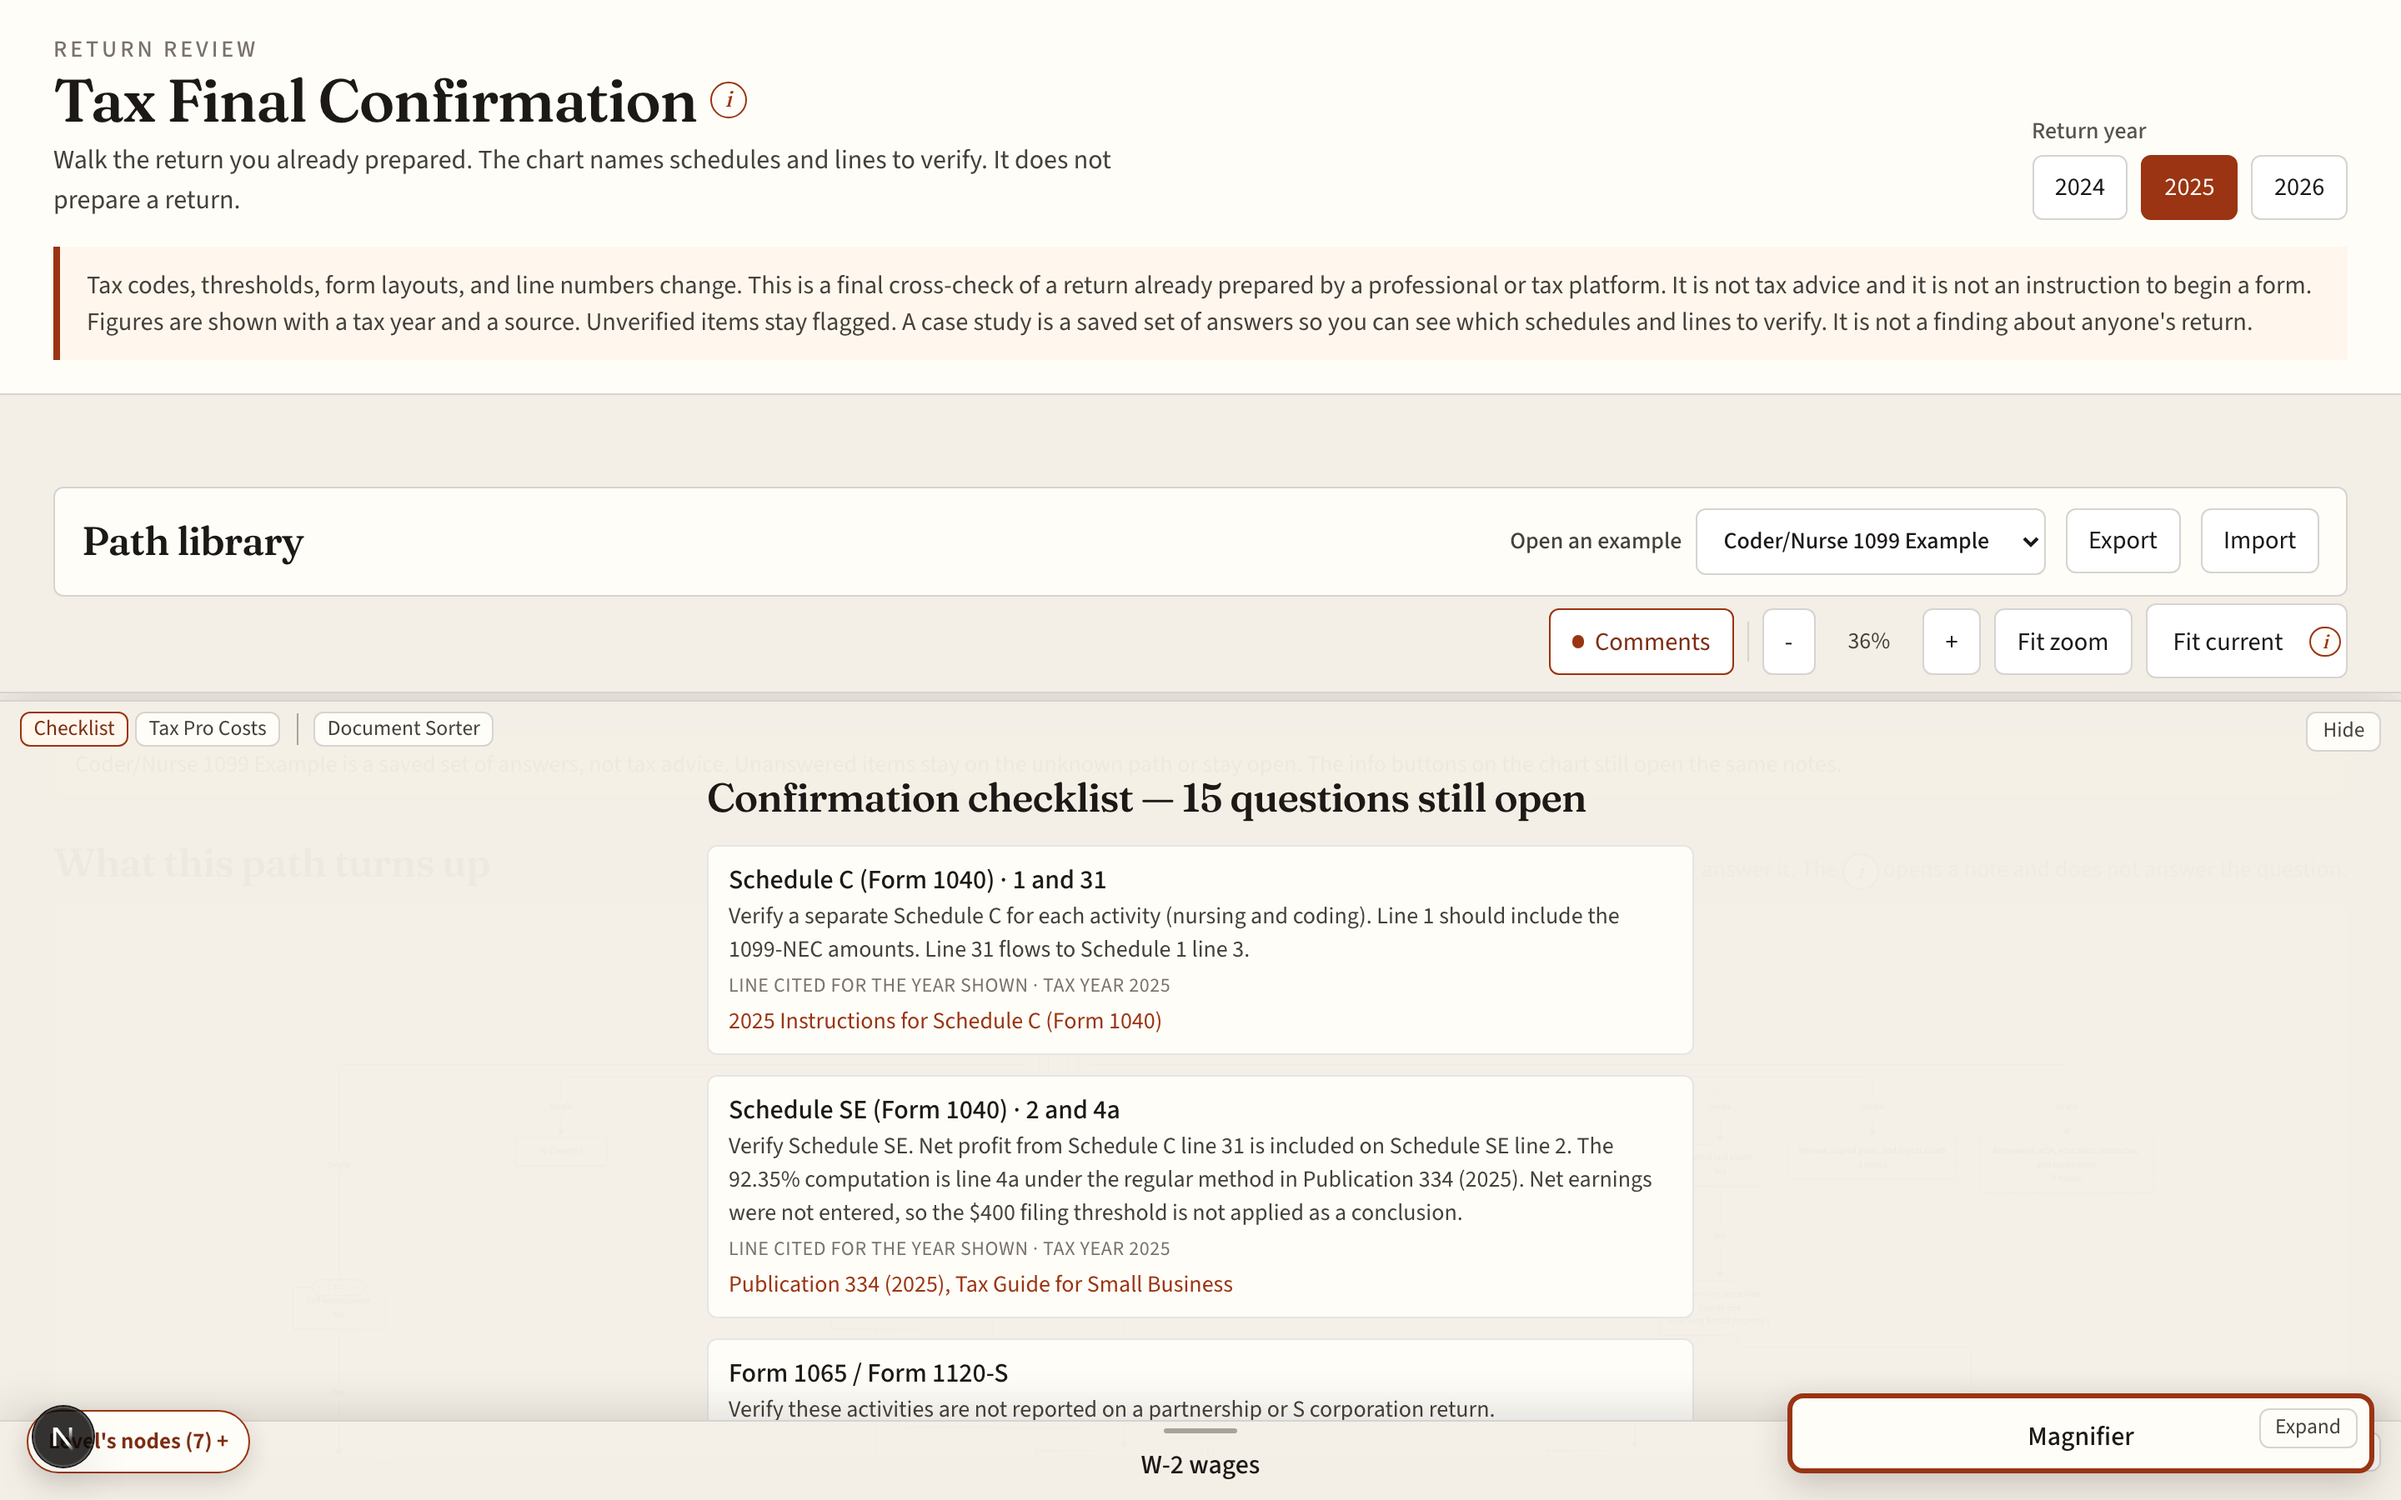
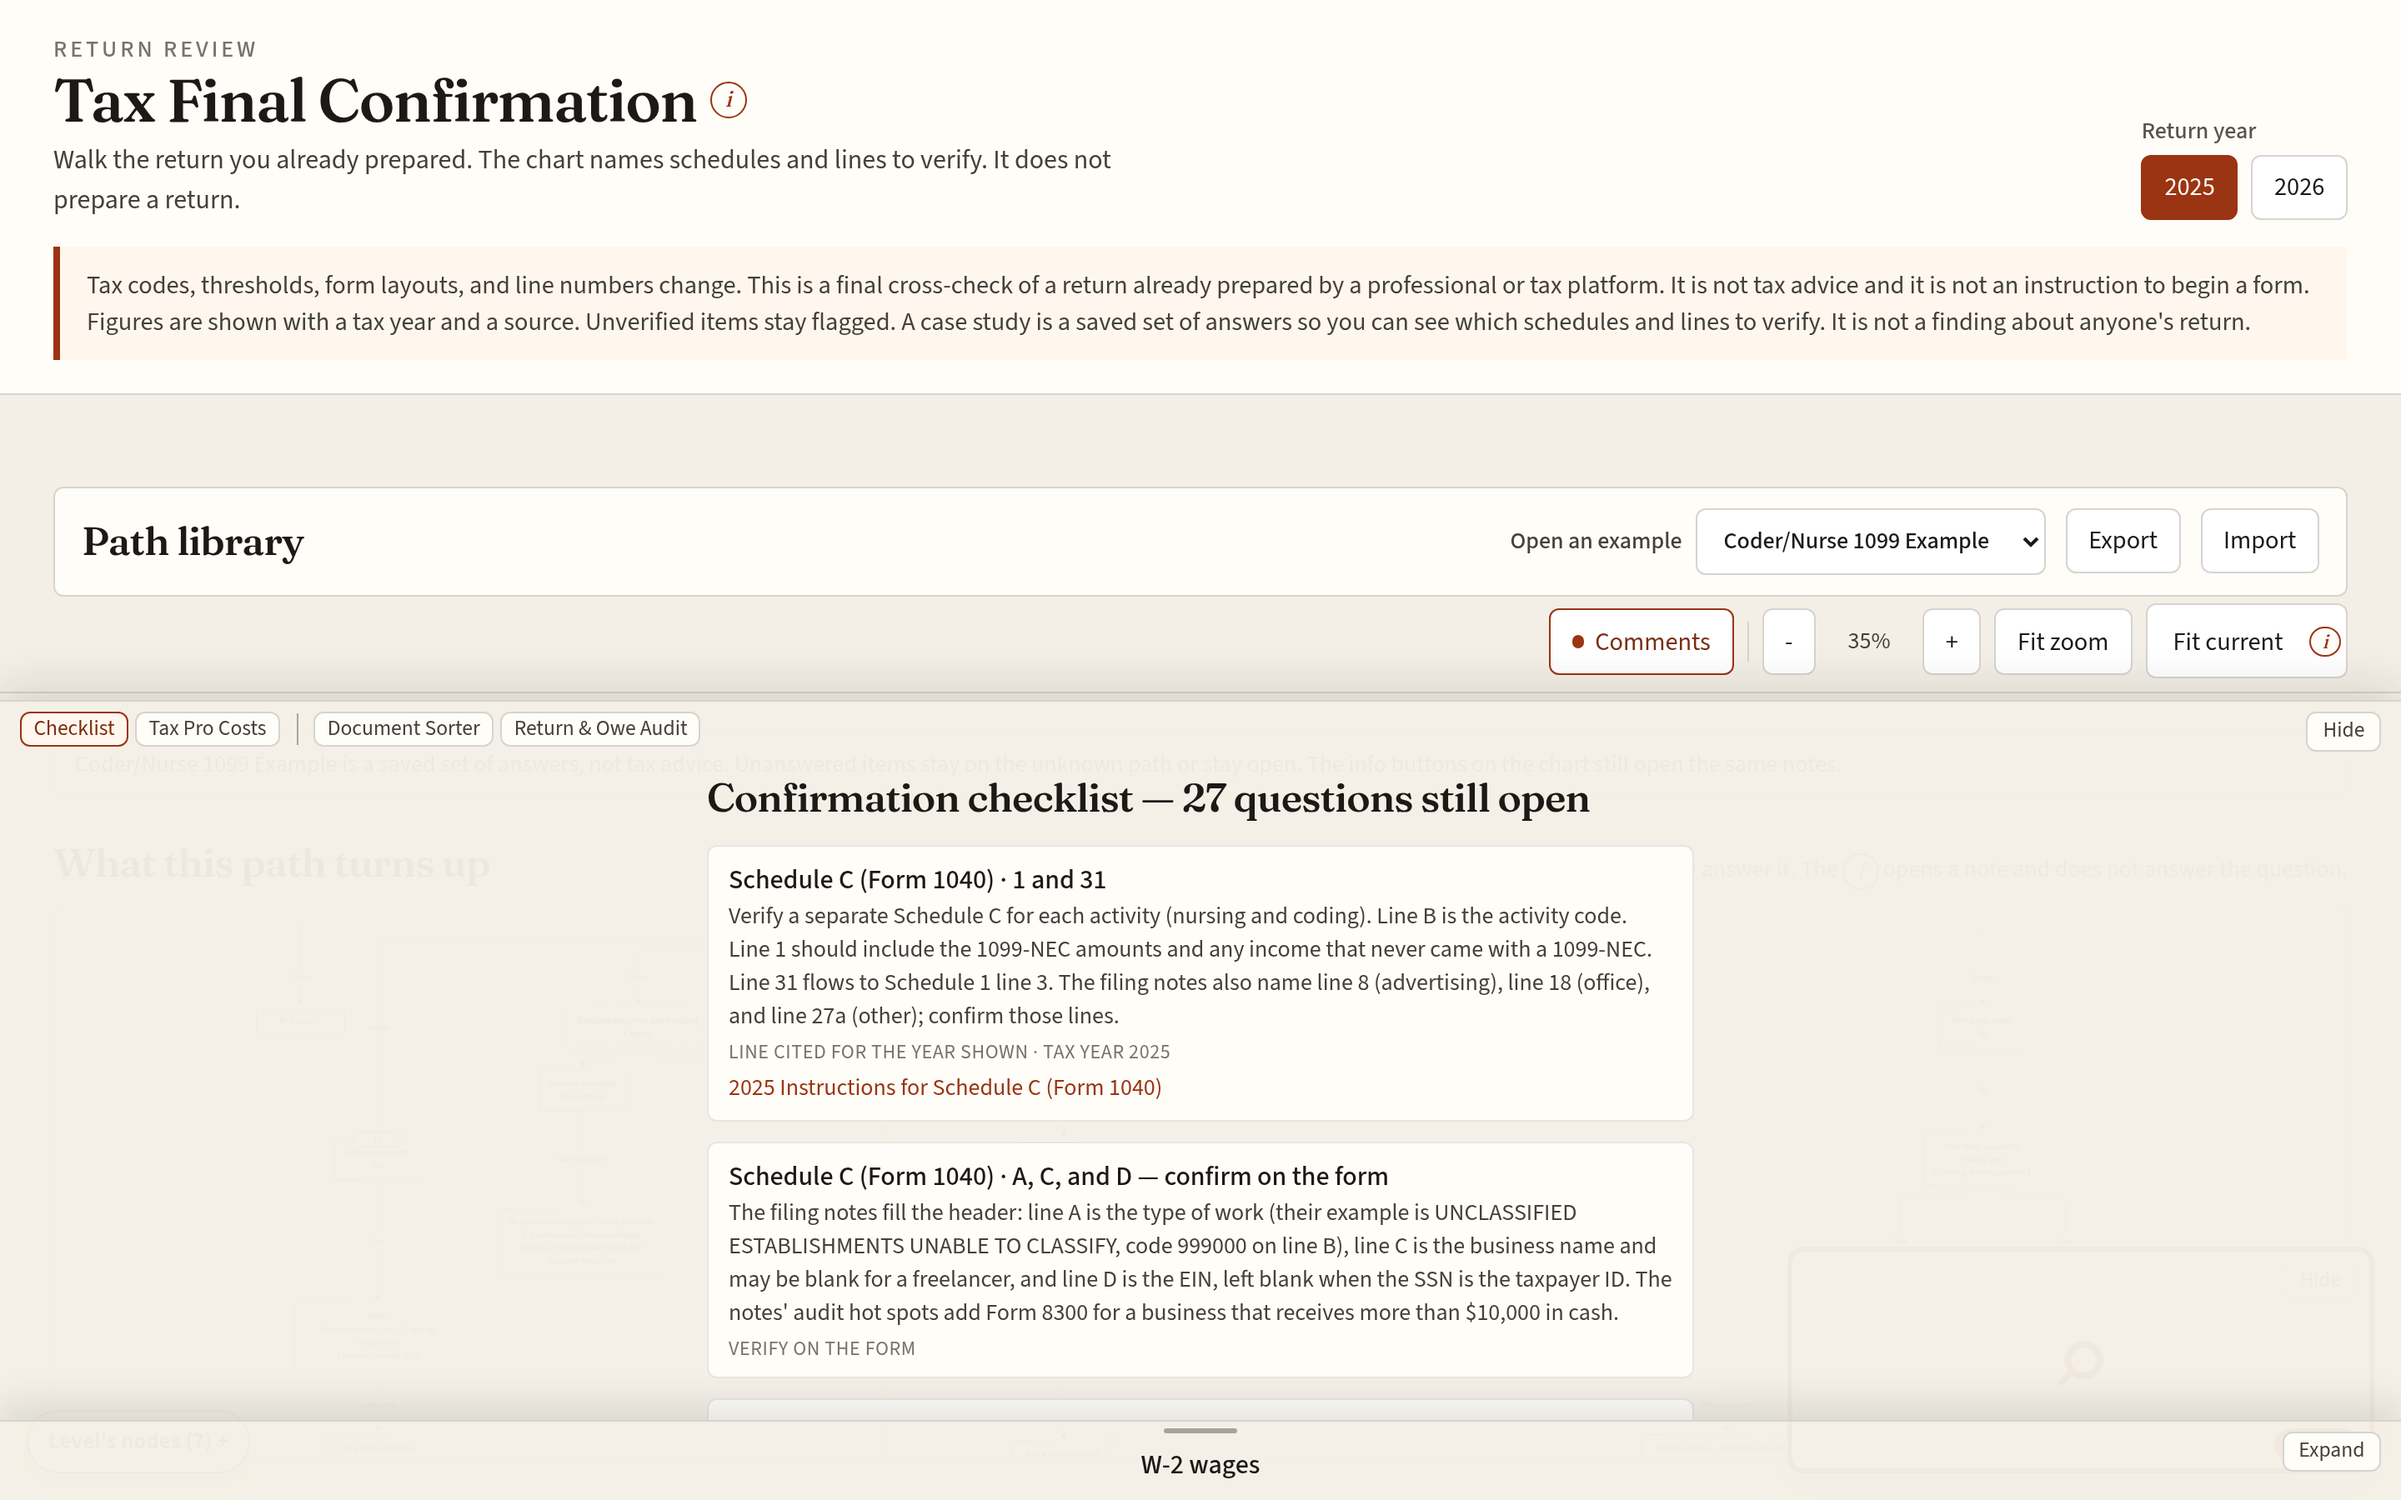
Refresh README screenshots from a fresh build, describe what npm test runs and which years are loaded, remove the unused Next.js template SVGs

diff --git a/README.md b/README.md
@@ -28,7 +28,9 @@ Then open http://127.0.0.1:43123
 
 Start blank, or open a case study. **Coder/Nurse 1099 Example** walks a single filer with two 1099-NEC activities, payment-app goods and services, and one paid-off rental. Louisiana versus Los Angeles, the payment-app amount, and whether the depreciation records are clean stay unknown. **Joint W-2 & Crypto Example** is a second, shorter path so the tool is not only that example. Case-study facts are not tax advice.
 
-`npm test` checks the graph. `npm run generate-graph` rewrites the decision-graph document from the same source.
+`npm test` runs three suites: the decision-graph tests (paths, checklist items, and the sourced 2025 and 2026 figures), the sorter-endpoint tests (which hosts get the local-only message), and the PHP sorter test, which starts `php -S` against `sorter/api.php` and is skipped when `php` is not installed. `npm run generate-graph` rewrites the decision-graph document from the same source.
+
+The return year offers 2025 and 2026, the two years with figures loaded and sourced. Figures that could not be checked against an IRS or SSA page stay marked to verify.
 
 ## Deploy
 
